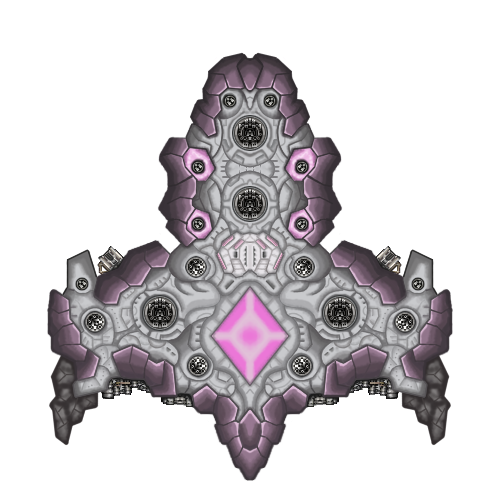
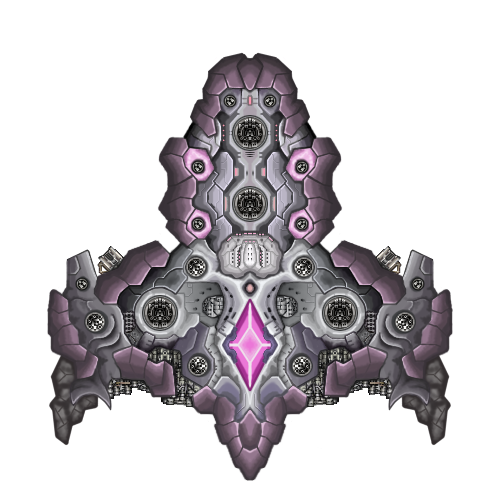
lots of stuff: Add in effect for crystal core, update engine style, buff Camiguin OP

Changed region(s): [[0.12, 0.18, 0.87, 0.84]]

diff --git a/src/pigeonpun/projectsolace/weapons/ps_corecrystaleffects.java b/src/pigeonpun/projectsolace/weapons/ps_corecrystaleffects.java
@@ -1,0 +1,38 @@
+package pigeonpun.projectsolace.weapons;
+
+import com.fs.starfarer.api.combat.CombatEngineAPI;
+import com.fs.starfarer.api.combat.EveryFrameWeaponEffectPlugin;
+import com.fs.starfarer.api.combat.WeaponAPI;
+import com.fs.starfarer.api.util.IntervalUtil;
+import java.awt.Color;
+
+import data.scripts.util.MagicLensFlare;
+import org.lazywizard.lazylib.FastTrig;
+import org.lazywizard.lazylib.MathUtils;
+import org.lazywizard.lazylib.VectorUtils;
+import org.lwjgl.util.vector.Vector2f;
+import pigeonpun.projectsolace.com.ps_misc;
+
+public class ps_corecrystaleffects implements EveryFrameWeaponEffectPlugin {
+    private final IntervalUtil timer = new IntervalUtil(0.25f, 0.45f);
+    
+    @Override
+    public void advance(float amount, CombatEngineAPI engine, WeaponAPI weapon){
+        
+        if (engine.isPaused()) {return;}
+
+        timer.advance(amount);
+        if (timer.intervalElapsed()){
+            Color nebulaColor = ps_misc.PROJECT_SOLACE_NEBULA_COLORs.get((int) (MathUtils.getRandomNumberInRange(0, ps_misc.PROJECT_SOLACE_NEBULA_COLORs.size() -1)));
+            Vector2f nebulaLocation = MathUtils.getRandomPointInCircle(weapon.getLocation(), 50f);
+            engine.addSmoothParticle(
+                    nebulaLocation,
+                    new Vector2f(),
+                    MathUtils.getRandomNumberInRange(10f,15f),
+                    2f,
+                    0.4f,
+                    nebulaColor
+            );
+        }
+    }    
+}

diff --git a/src/pigeonpun/projectsolace/com/ps_misc.java b/src/pigeonpun/projectsolace/com/ps_misc.java
@@ -1,6 +1,8 @@
 package pigeonpun.projectsolace.com;
 
 import java.awt.*;
+import java.util.ArrayList;
+import java.util.List;
 
 public class ps_misc {
     public static final Color PROJECT_SOLACE = new Color(230,40,240,255);
@@ -8,4 +10,14 @@ public class ps_misc {
     public static final Color PROJECT_SOLACE_JITTER_UNDER = new Color(230,40,240,45);
     public static final Color PROJECT_SOLACE_LIGHT = new Color(230,200,240,255);
 
+    public static final Color PROJECT_SOLACE_NEBULA_COLOR_1 = new Color(255,0,255,255);
+    public static final Color PROJECT_SOLACE_NEBULA_COLOR_2 = new Color(100,0,255,255);
+    public static final Color PROJECT_SOLACE_NEBULA_COLOR_3 = new Color(255,100,100,255);
+
+    public static final List<Color> PROJECT_SOLACE_NEBULA_COLORs = new ArrayList<>();
+    static {
+        PROJECT_SOLACE_NEBULA_COLORs.add(PROJECT_SOLACE_NEBULA_COLOR_1);
+        PROJECT_SOLACE_NEBULA_COLORs.add(PROJECT_SOLACE_NEBULA_COLOR_2);
+        PROJECT_SOLACE_NEBULA_COLORs.add(PROJECT_SOLACE_NEBULA_COLOR_3);
+    }
 }
